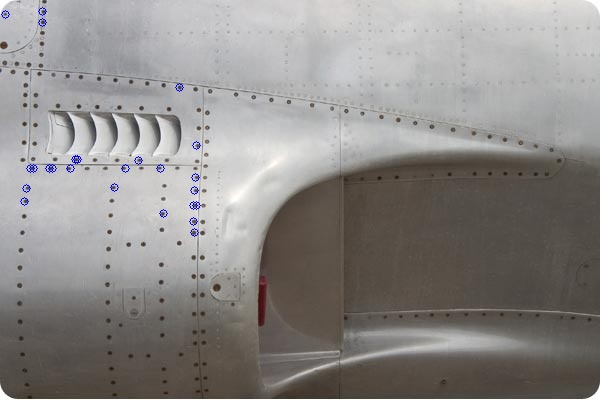
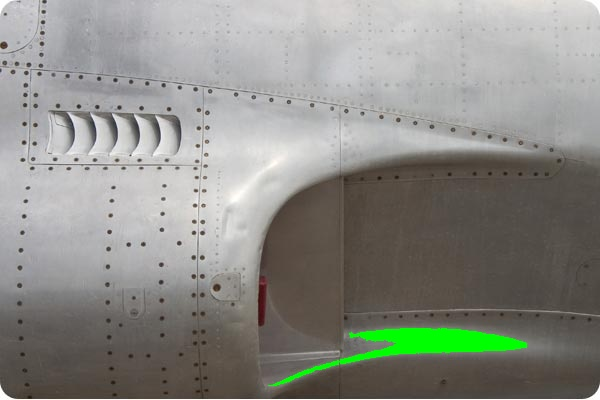
add basic blob functionality

diff --git a/SimpleCV.py b/SimpleCV.py
@@ -8,6 +8,14 @@ import cv
 import numpy as np
 
 
+#optional libraries
+BLOBS_ENABLED = True
+try:
+  import cvblob as cvb
+except ImportError:
+  BLOBS_ENABLED = False 
+
+
 #an abstract Camera class, for handling multiple types of video input
 class FrameSource:
   def __init__(self):
@@ -101,7 +109,8 @@ class Image:
 
   _bitmap = ""  #the bitmap (iplimage)  representation of the image
   _matrix = ""  #the matrix (cvmat) representation
-  _graybitmap = ""  #the matrix (cvmat) representation
+  _graybitmap = ""  #a reusable 8-bit grayscale bitmap
+  _blobLabel = ""  #the label image for blobbing
 
   #initialize the frame
   #parameters: source designation (filename)
@@ -233,7 +242,37 @@ class Image:
 
     return FeatureSet(corner_features)
 
-      
+
+  def findBlobs(self, threshval = 127, minsize=10, maxsize=0):
+    if not BLOBS_ENABLED:
+      return None
+
+    if (maxsize == 0):  
+      maxsize = self.width * self.height / 2
+    
+    #create a single channel image, thresholded to parameters
+    grey = cv.CreateImage(cv.GetSize(self.getBitmap()), cv.IPL_DEPTH_8U, 1)
+    cv.Copy(grey, self._getGrayscaleBitmap())
+    cv.Threshold(grey, grey, threshval, 255, cv.CV_THRESH_BINARY)
+
+    #create the label image
+    self._blobLabel = cv.CreateImage(cv.GetSize(self.getBitmap()), cvb.IPL_DEPTH_LABEL, 1)
+
+    #initialize the cvblobs blobs data structure (dict with label -> blob)
+    blobs = cvb.Blobs()
+
+    result = cvb.Label(grey, self._blobLabel, blobs)
+    cvb.FilterByArea(blobs, minsize, maxsize) 
+
+    blobs_sizesorted = sorted(blobs.values(), key=lambda x: x.area, reverse=True) 
+
+    blobsFS = [] #create a new featureset for the blobs
+    for b in blobs_sizesorted:
+      print "hi"
+      blobsFS.append(Blob(self,b)) #wrapper the cvblob type in SimpleCV's blob type 
+
+    return FeatureSet(blobsFS) 
+
   def drawCircle(self, at_x, at_y, rad, color, thickness = 1):
     cv.Circle(self.getMatrix(), (int(at_x), int(at_y)), rad, color, thickness)
     self._clearBuffers()
@@ -288,28 +327,18 @@ class Image:
     self._graybitmap = ""
 
 
-class FeatureSet:
-  features = ()
-
-  def __init__(self, f):
-    self.features = f
+class FeatureSet(list):
 
   def draw(self, color = (255,0,0)):
-    for f in self.features:
+    for f in self:
       f.draw(color) 
 
   def coordinates(self):
     ar = [] 
-    for f in self.features:
+    for f in self:
       ar.append([f.x, f.y]) 
 
     return np.array(ar)
-
-  def __len__(self):
-    return len(self.features)
-
-  def __getitem__(self, index):
-    return self.features[index]
 
 class Feature(object):
   x = 0.0
@@ -335,25 +364,27 @@ class Corner(Feature):
     self.image.drawCircle(self.x, self.y, 4, color)
  
 
-
 #stubbing out blob interface
 class Blob(Feature):
-  cblob = ""
+  cvblob = ""
   
-  def __init__(i, cb): 
-    cblob = cb
+  def __init__(self, i, cb): 
+    self.image = i
+    self.cvblob = cb
+    (self.x, self.y) = cvb.Centroid(cb)
 
-  def radius():
-    return 
+  def area(self):
+    return self.cvblob.area  
 
-  def boundingBox():
-    return
+  def meanColor(self):
+    return cvb.BlobMeanColor(self.cvblob, self.image._blobLabel, self.image.getBitmap())
 
-  def area():
-    return cblob.Area()  
+#  def elongation(self):
 
-  def meanColor():
-    return cblob.getMeanColor()
+#  def perimeter(self):
+  def draw(self, color = (0, 255, 0)):
+    cvb.RenderBlob(self.image._blobLabel, self.cvblob, self.image.getBitmap(), self.image.getBitmap(), cvb.CV_BLOB_RENDER_COLOR, color)
+
 
 #class Edge(Feature):
 

diff --git a/tests.py b/tests.py
@@ -129,6 +129,16 @@ def test_histogram():
 
   return 1
 
+def test_blobs():
+  if not BLOBS_ENABLED:
+    return None 
+  img = Image(testimage2)
+  blobs = img.findBlobs()
+
+  blobs[0].draw((0, 255, 0))
+  img.save(testoutput)
+
+  return 1
 
 #def test_lossy_store():
 #  img = Image(testimage2)
